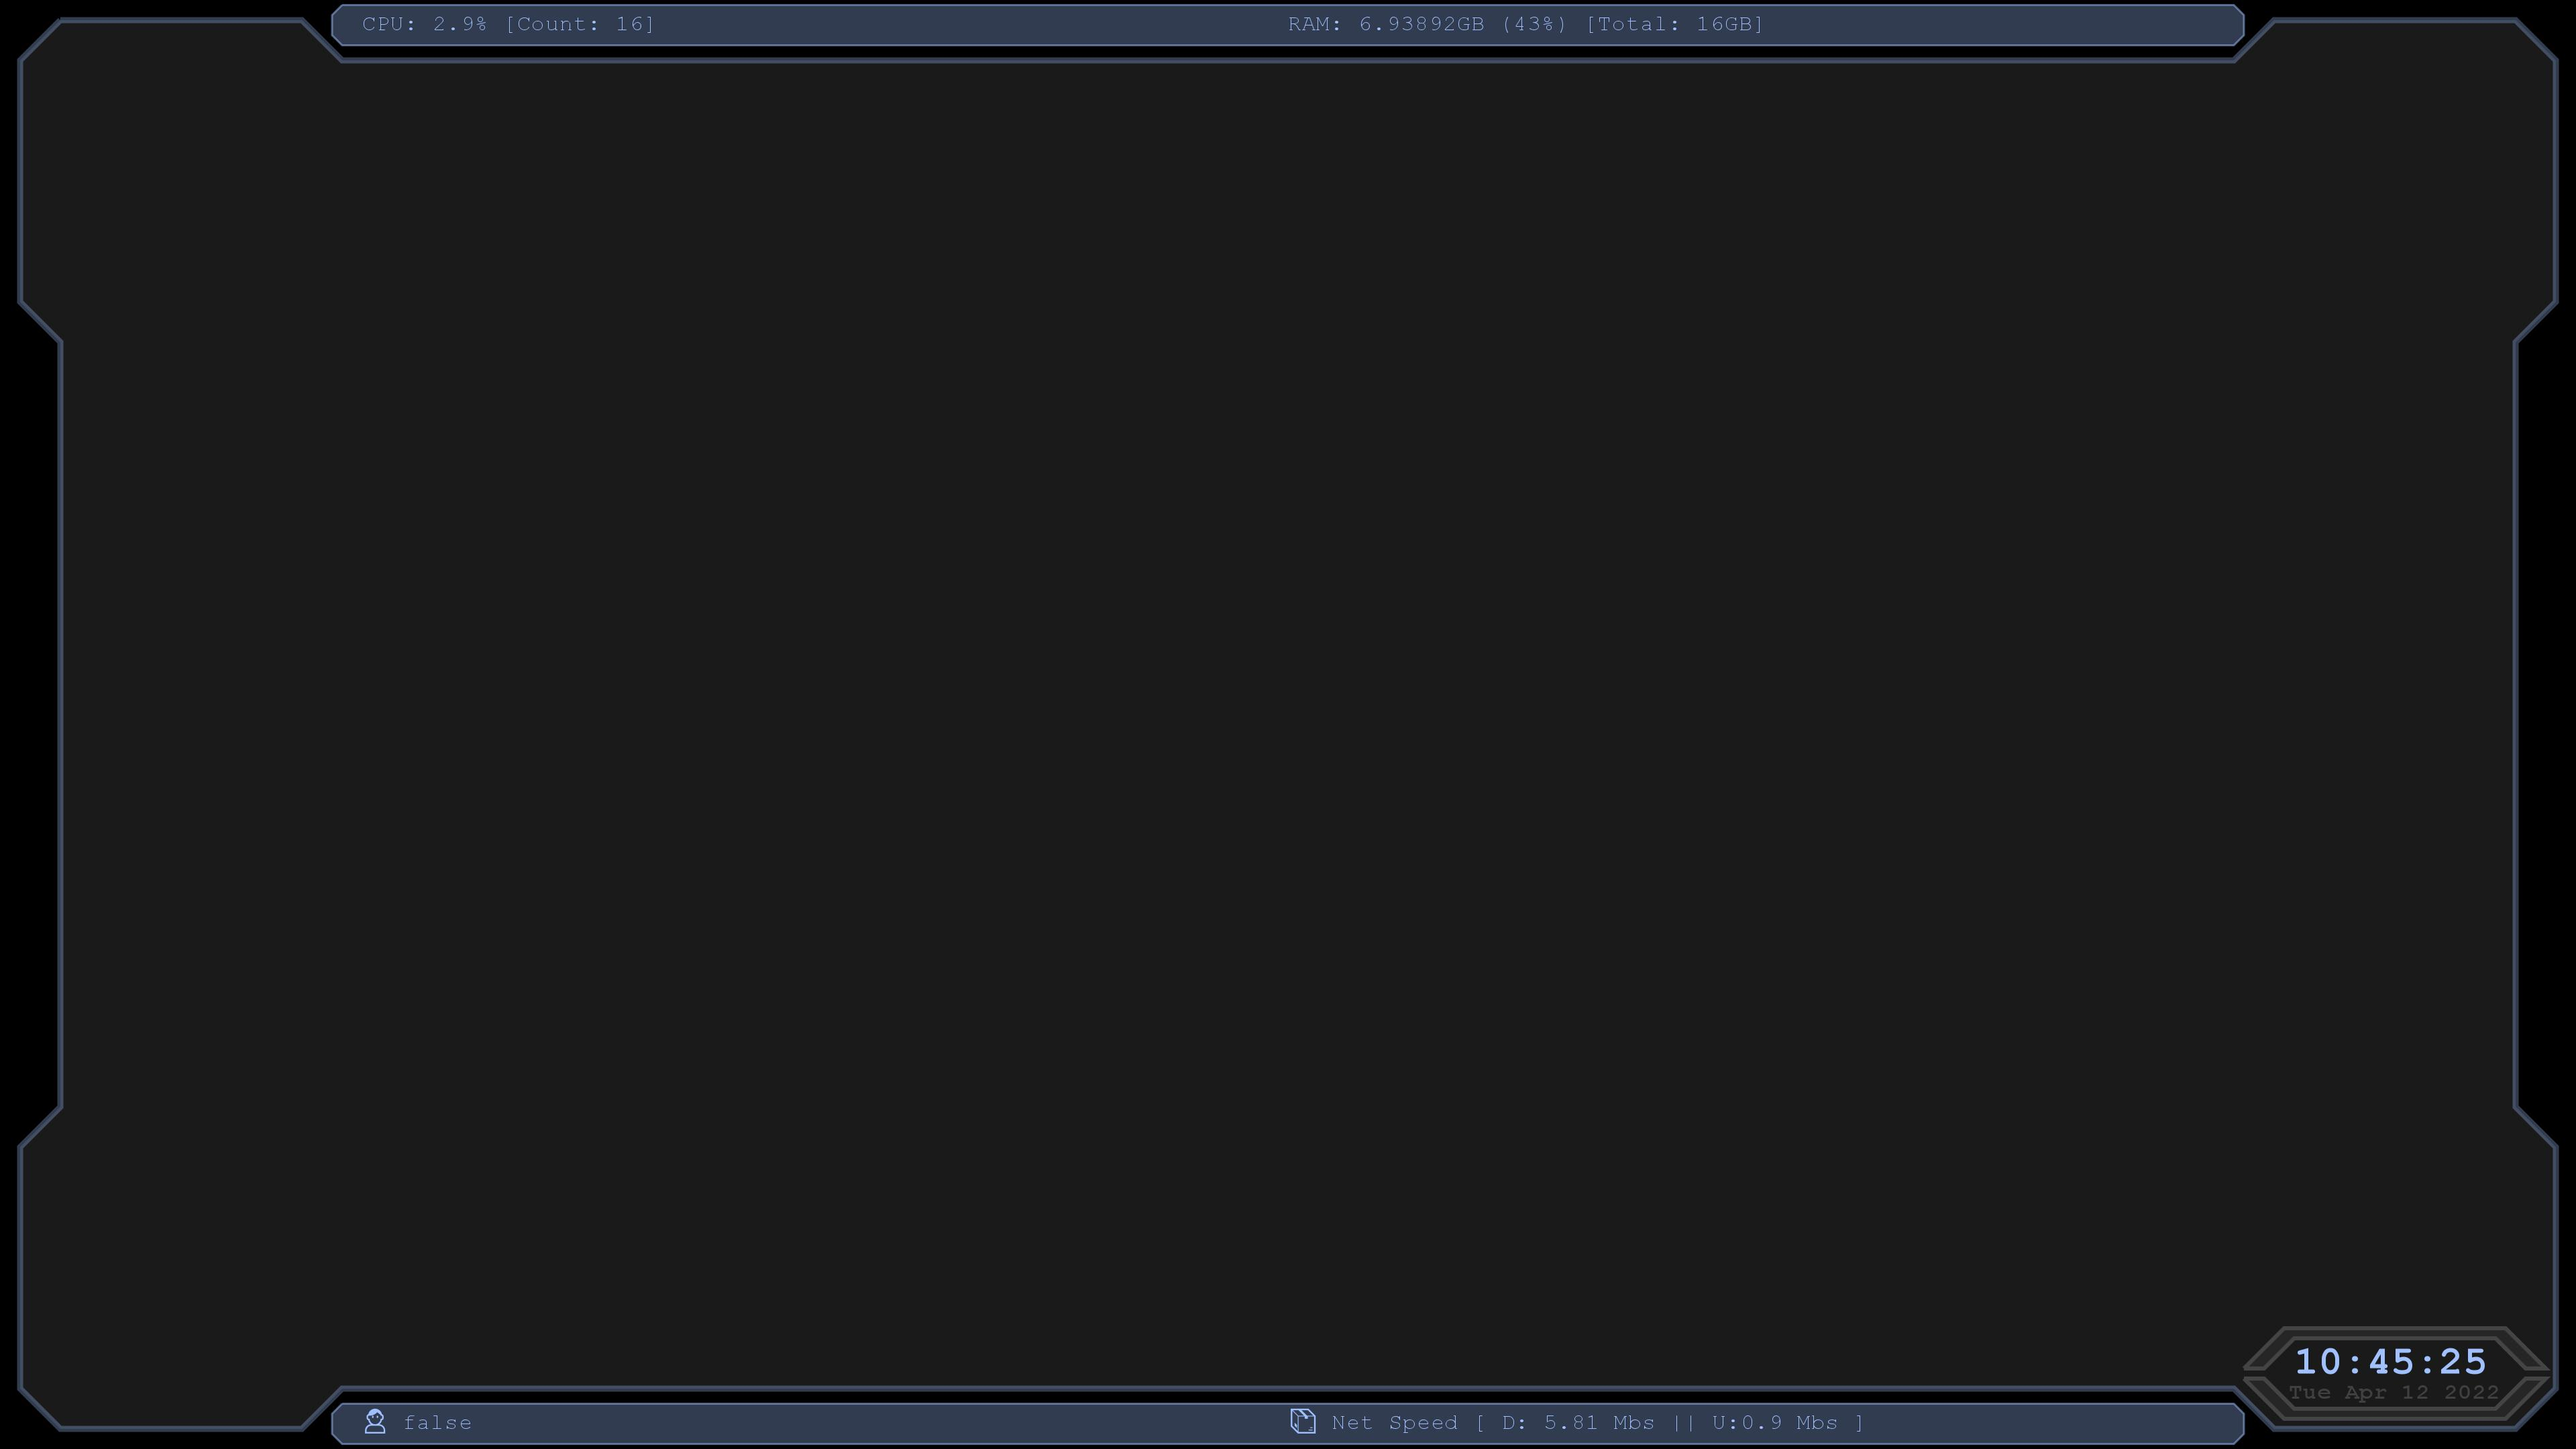
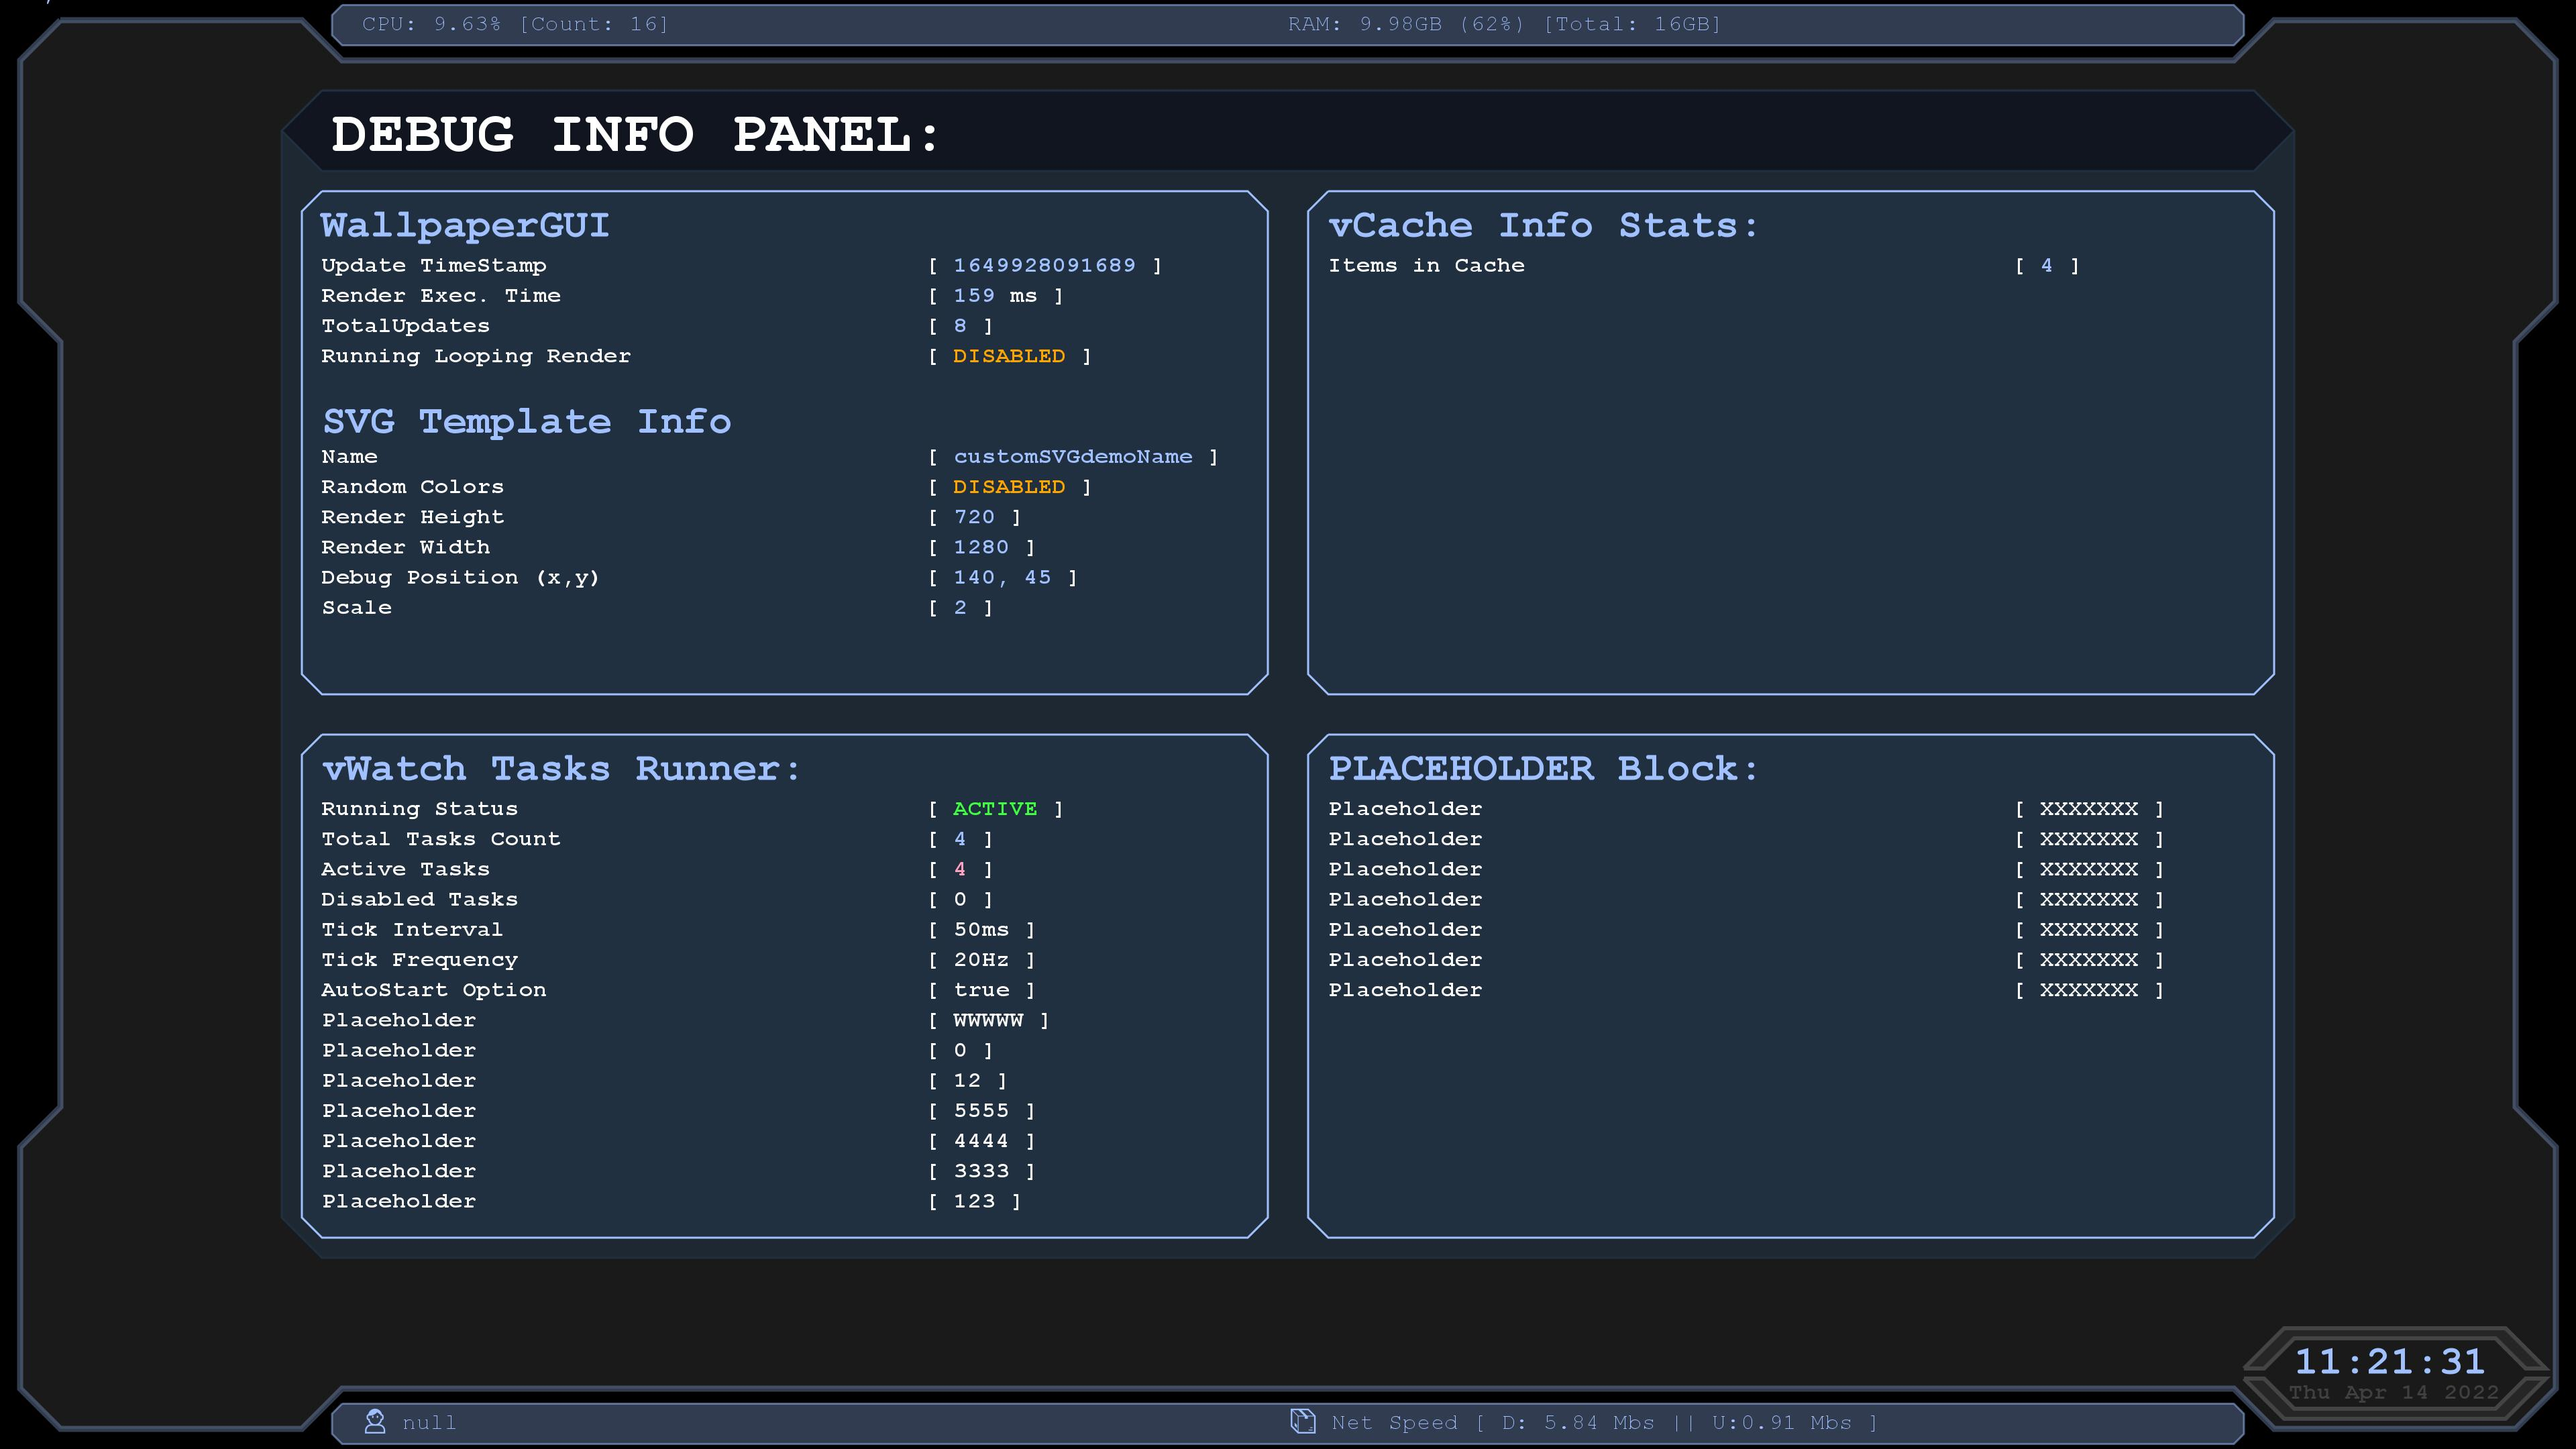
yea

diff --git a/src/sysTasks/index.js b/src/sysTasks/index.js
@@ -1,8 +1,18 @@
 const config = require('../config');
 const vCache = require('../vCache');
-const { vTime } = require('../helpers/');
-const actions = require('./actions');
 
+const { vTime } = require('../helpers/');
+
+const {
+  renderWallpaperGUI,
+  systemInfoStats,
+  netSpeedTest
+} = require('./actions');
+
+
+const constTimes = {
+  sec5: vTime.seconds(5)
+};
 
 module.exports = sysTasks = (vWatch) => {
 
@@ -14,19 +24,20 @@ module.exports = sysTasks = (vWatch) => {
 
   // This will do the rendering of wallpaperGUI.
   // This Tasks status should match config.backgroundUpdates value.
-  vWatch.newTask("renderWallpaperGUI", vTime.seconds(5), actions.renderWallpaperGUI);
+  vWatch.newTask("renderWallpaperGUI", constTimes.sec5, renderWallpaperGUI);
   vWatch.setTaskStatus("renderWallpaperGUI", config.backgroundUpdates);
 
 
   // Getting Current User&Device Info
-  vWatch.newTask("systemInfoStats", vTime.seconds(5), actions.systemInfoStats);
+  vWatch.newTask("systemInfoStats", constTimes.sec5, async () => await systemInfoStats(constTimes.sec5));
 
 
-  vWatch.newTask("netSpeedTest", vTime.minutes(30), actions.netSpeedTest);
+  vWatch.newTask("netSpeedTest", vTime.minutes(30), netSpeedTest);
 
 
   vWatch.newTask("vWatchInfoData", vTime.minutes(1), async () => {
-    await vCache.set("vWatchInfoData", {
+
+    let vwDbgInfo = {
       status: (vWatch.loopCore !== null) ? true : false,
       tickInterval: vWatch.tickInterval, // in milliseconds
       frequency: (1000 / vWatch.tickInterval),
@@ -35,7 +46,10 @@ module.exports = sysTasks = (vWatch) => {
       activeTasksCount: await vWatch.activeTasksCount(),
       totalTasksCount: await vWatch.totalTasksCount(),
       vWatchVersion: vWatch.version,
-    });
+    };
+
+    await vCache.set("vWatchInfoData", vwDbgInfo);
+
   });
 
 };

diff --git a/__tests__/vCache/index.js b/__tests__/vCache/index.js
@@ -1,19 +1,74 @@
-
-
 const vCache = require('../../src/vCache');
+
+
+const getAfterDelay = async (name, delay) => {
+  return new Promise((resolve, reject) => {
+    try {
+      setTimeout(async () => {
+        resolve(await vCache.get(name));
+      }, delay);
+    } catch (err) {
+      reject(err);
+    }
+  });
+};
+
 
 test("vCache.size() = 0", async () => {
   expect(await vCache.size()).toBe(0);
 });
 
-test("await vCache.get('test')", async () => {
-  expect(await vCache.get('test')).toBe(false);
+
+test("vCache.get('test')", async () => {
+  expect(await vCache.get('test')).toBe(null);
 });
 
-test("await vCache.set('test', 11)", async () => {
+
+test("vCache.set('test', 11)", async () => {
   expect(await vCache.set('test', 11)).toBe(11);
 });
 
-test("await vCache.get('test')", async () => {
+
+test("vCache.get('test')", async () => {
   expect(await vCache.get('test')).toBe(11);
+  expect(await getAfterDelay('test', 1000)).toBe(11);
+});
+
+
+test("DemoInfo1  Set/Get/GetAfterExpired", async () => {
+
+  let demoObj = {
+    name: 'yea',
+    count: 11,
+    info: false
+  };
+
+  await vCache.set('DemoInfo1', demoObj, 100);
+
+  expect(await getAfterDelay('DemoInfo1', 10)).toBe(demoObj);
+  expect(await getAfterDelay('DemoInfo1', 500)).toBe(null);
+
+});
+
+
+test("Check Cache Size", async () => {
+  expect(await vCache.size()).toBe(2);
+});
+
+
+test("vCache.toFile('demo.json')", async () => {
+  expect(await vCache.toFile('demo.json')).toBe(true);
+});
+
+
+test("Add and Remove Item", async () => {
+
+  await vCache.set('test_Del', `D1110`);
+  expect(await vCache.get('test_Del')).toBe(`D1110`);
+  expect(await vCache.size()).toBe(3);
+
+  await vCache.remove('test_Del');
+  expect(await vCache.get('test_Del')).toBe(null);
+  expect(await vCache.size()).toBe(2);
+
 });

diff --git a/src/vCache/index.js b/src/vCache/index.js
@@ -11,12 +11,32 @@ function V_Cache() {
 
 
   this.get = get = async (key = null) => {
-    return this.cache[key] || false;
+    console.group("vCache.get()");
+
+    let data = this.cache[key];
+
+    console.log(data);
+    console.groupEnd("vCache.get()");
+
+
+    return (data != undefined) ? ((data.expires > Date.now() || data.expires == false) ? data.value : null) : null;
   };
 
 
-  this.set = async (key, value) => {
-    return (this.cache[key] = value) || false;
+  this.set = async (key, value, expires = null) => {
+    console.group("vCache.set()");
+
+    let data = {
+      name: key,
+      value: value,
+      expires: (isNaN(expires) || expires == null) ? false : (Date.now() + expires)
+    };
+
+    console.log(data);
+    console.groupEnd("vCache.set()");
+    this.cache[key] = data;
+
+    return this.get(key);
   };
 
 
@@ -75,7 +95,8 @@ function V_Cache() {
 
 
   this.fromFile = (file) => {
-    return this.fromJSON(v_fs.readSy(path.join(__dirname, file)));
+    const data = v_fs.readSy(path.join(__dirname, file));
+    return (data !== false) ? this.fromJSON(data) : false;
   };
 
 }

diff --git a/src/sysTasks/system-info-stats.js b/src/sysTasks/system-info-stats.js
@@ -1,17 +1,17 @@
 const vCache = require('../vCache');
 const v_os = require('../helpers/v_os');
 const { byteSizer } = require('v_file_system');
-const { roundNumber, vTime } = require('../helpers');
+const { roundNumber } = require('../helpers');
 
 
-module.exports = async () => {
+module.exports = async (timeLen = 1000) => {
 
   const result = {
 
     ram: {
       freememproc: v_os.freememproc(),
 
-      freemem: roundNumber(byteSizer.byteToGiga(v_os.freemem()), 5),
+      freemem: roundNumber(byteSizer.byteToGiga(v_os.freemem()), 2),
 
       totalmem: roundNumber(byteSizer.byteToGiga(v_os.totalmem())),
     },
@@ -20,7 +20,7 @@ module.exports = async () => {
 
     cpu: {
       count: v_os.cpu.count(),
-      usage: await v_os.cpu.usage(vTime.seconds(5)),
+      usage: await v_os.cpu.usage(timeLen),
     },
 
   };

diff --git a/src/wallpaperGUI/template.js b/src/wallpaperGUI/template.js
@@ -66,7 +66,7 @@ function svgTemplate(data = {}) {
       svgStats: await vCache.get('svgRenderDebugInfo') || { lastExecTimeVal: 0, totalUpdates: 0, scale: 1, running: false },
     };
 
-    console.log(this.cacheData);
+    //console.log(this.cacheData);
 
     return `<svg xmlns="http://www.w3.org/2000/svg" viewBox="0 0 ${this.helperWidth} ${this.helperHeight}"  height="${this.helperHeight}" width="${this.helperWidth}" class="${this.name}"  shape-rendering="geometricPrecision" >
               ${await this.bckLayerNew()}
